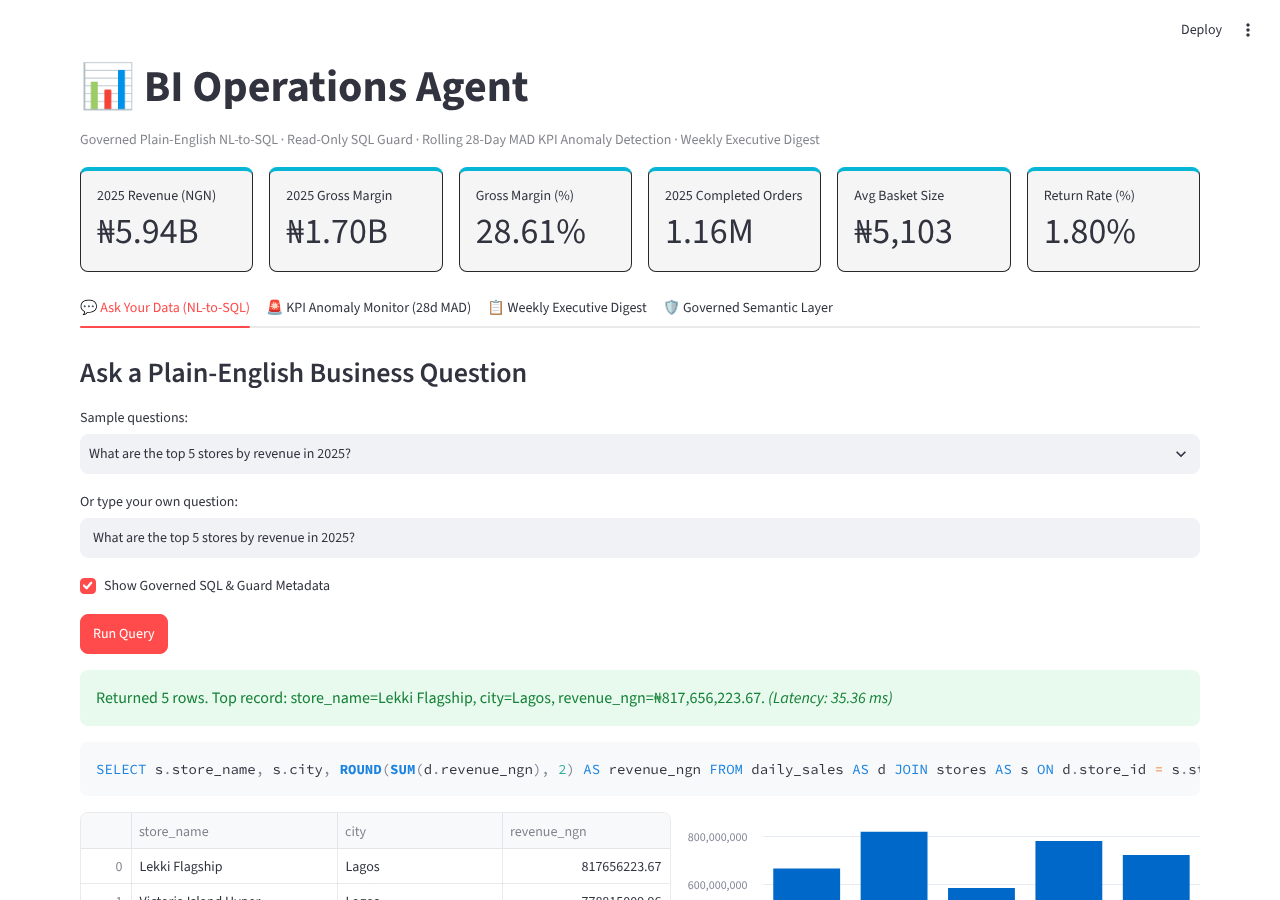
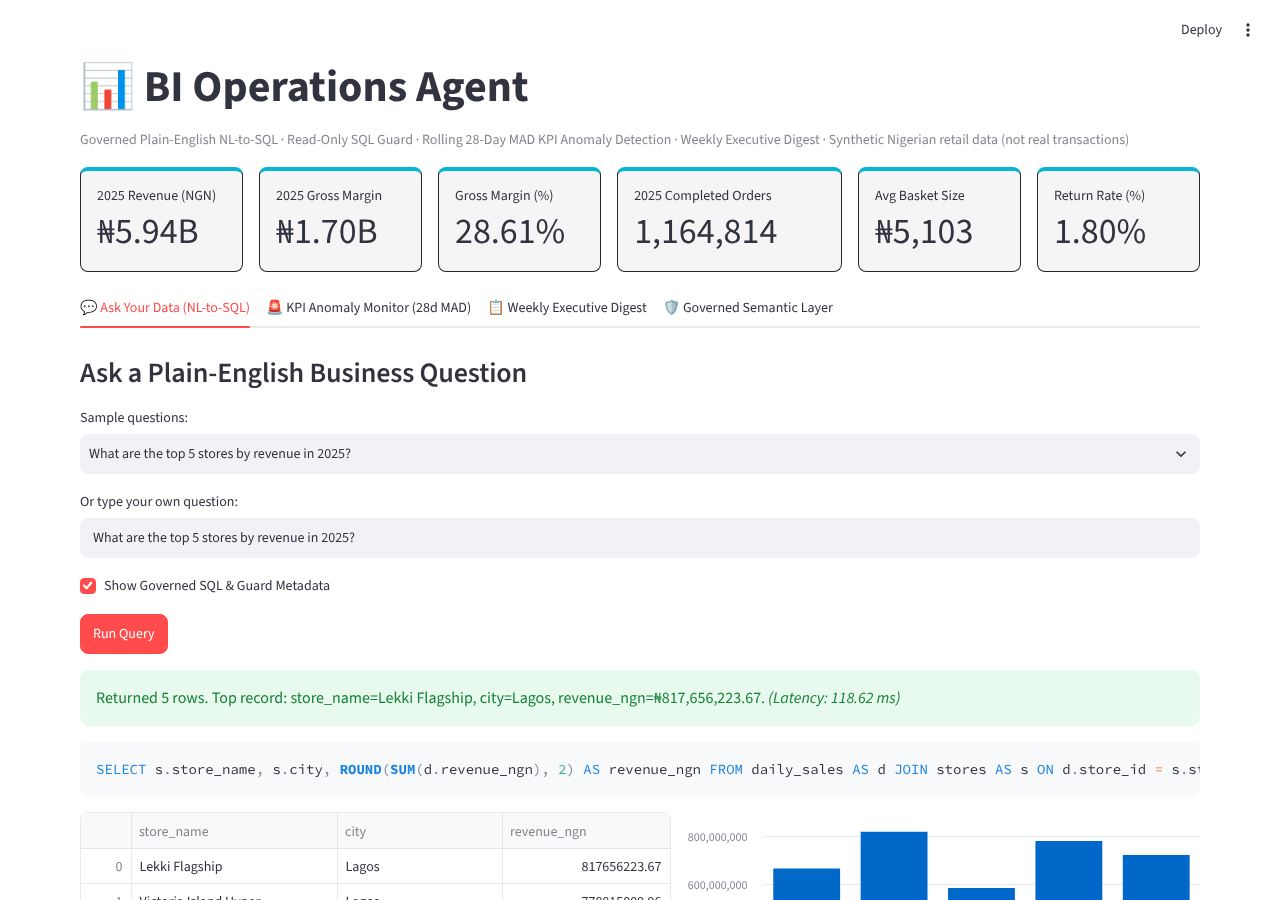
docs: numbers match reports JSON; describe the optional LLM path and raw-SQL behaviour honestly
- README/posts: latency from the regenerated eval_summary.json, 89 tests,
  "self-set target" instead of "production target", Q50 is a
  correlation (not covariance), less hype in the posts.
- README: LLM provider is optional, guarded and not benchmarked; raw
  SELECT typed as a question is run through the guard by design; 1 MB
  value cap. Short "what it shows" line for reviewers.
- Dashboard caption says the data is synthetic; screenshot retaken (the
  old one predated the exact orders count).

Claude-Session: https://claude.ai/code/session_01W9kMGUZd8hbToUsMNzQsYj

diff --git a/app.py b/app.py
@@ -51,7 +51,7 @@ db, engine, monitor, semantic_cfg = init_resources()
 
 st.title("📊 BI Operations Agent")
 st.caption(
-    "Governed Plain-English NL-to-SQL · Read-Only SQL Guard · Rolling 28-Day MAD KPI Anomaly Detection · Weekly Executive Digest"
+    "Governed Plain-English NL-to-SQL · Read-Only SQL Guard · Rolling 28-Day MAD KPI Anomaly Detection · Weekly Executive Digest · Synthetic Nigerian retail data (not real transactions)"
 )
 
 # Top KPI Ribbon from real seeded dataset

diff --git a/README.md b/README.md
@@ -1,6 +1,8 @@
 # BI Operations Agent — Plain-English Analytics, Governed SQL & KPI Monitoring
 
-> **One-line result:** Natural-language business intelligence agent backed by a governed YAML semantic layer, a sqlglot AST read-only SQL guard, and robust MAD z-score anomaly detection. On a **synthetic** 2-year Nigerian retail dataset (₦10.15B GMV) it scores **96.0% execution accuracy (48/50)** on its in-sample 50-question benchmark, **56.0% (14/25)** on 25 reworded held-out questions, and blocks **12/12** adversarial attacks (0 unsafe SQL executed) at **17.8 ms median latency** (p95 36.6 ms; machine-dependent).
+> **One-line result:** Natural-language business intelligence agent backed by a governed YAML semantic layer, a sqlglot AST read-only SQL guard, and robust MAD z-score anomaly detection. On a **synthetic** 2-year Nigerian retail dataset (₦10.15B GMV) it scores **96.0% execution accuracy (48/50)** on its in-sample 50-question benchmark, **56.0% (14/25)** on 25 reworded held-out questions, and blocks **12/12** adversarial attacks (0 unsafe SQL executed) at **18.8 ms median latency** (p95 39.1 ms; machine-dependent).
+
+**What it shows:** semantic-layer design, SQL safety engineering (AST validation, not regex), honest evaluation with a held-out set, robust anomaly detection, and a small FastAPI + Streamlit product around it. Python, sqlglot, SQLite, pandas, FastAPI, Streamlit, pytest, GitHub Actions.
 
 | Streamlit UI (`img/ui_streamlit.png`) | KPI anomalies (`img/kpi_anomalies.png`) |
 |---|---|
@@ -16,12 +18,12 @@ Benchmark summary chart (`img/hero.png`):
 
 Small and medium-sized enterprise (SME) leaders and operations managers have business data spread across SQLite, DuckDB, PostgreSQL, and spreadsheets, but lack a dedicated data engineering team to write ad-hoc SQL or maintain custom BI dashboards. 
 
-Standard generative text-to-SQL approaches fail in real-world business settings due to three critical flaws:
+Letting a language model write SQL straight against a business database has three common problems:
 1. **Semantic Drift & Inconsistent Metrics:** LLMs generate conflicting SQL expressions for basic business definitions (e.g. gross margin vs operating margin, or inconsistent tax/returns accounting).
 2. **Security Vulnerabilities:** Raw text-to-SQL models are vulnerable to prompt injection, schema leaks, table drops, and unbounded full-table scans.
 3. **Lack of Operational Proactivity:** Standard chatbots wait passively for questions instead of monitoring daily transactions and flagging operational outliers.
 
-**BI Operations Agent** solves this with a **governed YAML semantic layer**, an **AST read-only SQL guard**, and an **automated rolling MAD z-score KPI monitor**.
+This project addresses them with a **governed YAML semantic layer**, an **AST read-only SQL guard**, and a **rolling MAD z-score KPI monitor**.
 
 ---
 
@@ -31,7 +33,7 @@ Standard generative text-to-SQL approaches fail in real-world business settings 
   - **Period:** 2 full years (2024-01-01 to 2025-12-31, 731 calendar days).
   - **Stores:** 10 physical locations across 6 Nigerian cities (Lagos [Ikeja, Lekki, Surulere], Abuja [Wuse, Garki], Port Harcourt, Ibadan, Kano, Enugu).
   - **Volume:** 36,550 store-category daily sales records representing **2,145,814 orders** and **₦10,149,566,063.03 in gross revenue** (₦2.90B gross margin, 28.61% overall margin).
-  - **Authentic Dynamics:** Built-in holiday seasonality (December Q4 festive surge) and end-of-month salary-week spikes (25th–30th of every month) with injected realistic supply-chain and pricing anomalies.
+  - **Built-in patterns:** December festive surge, end-of-month salary-week spikes (25th–30th of every month), and a few injected supply-chain and pricing anomalies for the monitor to find.
 
 ---
 
@@ -42,9 +44,10 @@ User Query (Plain English)
           │
           ▼
 ┌──────────────────────────────────────────────┐
-│       Engine & Semantic Pattern Compiler      │
+│      Engine & Semantic Pattern Compiler      │
 │  - Maps intent to approved views & metrics   │
-│  - Multi-provider: Anthropic / OpenAI / Local│
+│  - Default: deterministic compiler (no LLM)  │
+│  - Optional LLM: Anthropic / OpenAI / Ollama │
 └──────────────────────────────────────────────┘
           │
           ▼ (Draft SQL)
@@ -69,6 +72,8 @@ Executive Response + Chart Spec + Anomaly Z-Score
 
 Storage backend: SQLite (read-only URI mode). An optional DuckDB code path exists in `seed.py` when `duckdb` is installed; it is not exercised by CI. Postgres is on the roadmap.
 
+**Optional LLM provider.** Setting `BI_AGENT_PROVIDER=anthropic|openai|ollama` (plus the key) makes `engine.py` ask that model for SQL first, with a 4 s timeout; on any error it falls back to the deterministic compiler and the response says `provider: semantic_compiler`. LLM output is validated by the same guard as everything else. Every number in this README comes from the deterministic compiler: the LLM path has unit tests with a mocked provider but has not been benchmarked, and its token cost is not metered (`cost_usd` is `null`).
+
 1. **Governed Semantic Layer (`config/semantic_layer.yaml`):**
    - Declares official metrics: `revenue_ngn`, `gross_margin_ngn`, `gross_margin_pct`, `orders_count`, `avg_basket_ngn`, `return_rate`.
    - Protects against conflicting joins and metric definitions.
@@ -86,7 +91,7 @@ Storage backend: SQLite (read-only URI mode). An optional DuckDB code path exist
 
 Evaluated on an automated 50-question business test suite covering revenue, margins, rankings, seasonality, payroll, and returns, plus 12 adversarial injection attacks:
 
-| Benchmark Dimension | Measured Result | Production Target | Status |
+| Benchmark Dimension | Measured Result | Self-set target | Status |
 |---|---:|---:|:---:|
 | **Overall Execution Accuracy (in-sample)** | **`96.0%` (48/50)** | `≥ 90.0%` | Passed |
 | - *Revenue & Growth Domain (12 Qs)* | **`100.0%` (12/12)** | `100.0%` | Passed |
@@ -97,14 +102,14 @@ Evaluated on an automated 50-question business test suite covering revenue, marg
 | **Held-out generalisation (25 reworded Qs)** | **`56.0%` (14/25)** | none set | Reported |
 | **Adversarial Injections Blocked** | **`100.0%` (12/12)** | `100.0%` | Passed |
 | **Unsafe SQL Executed** | **`0`** | `0` | Passed |
-| **Median Execution Latency** | **`17.8 ms`** | `< 2,000 ms` | Passed |
-| **95th Percentile Latency (p95)** | **`36.6 ms`** | `< 6,000 ms` | Passed |
+| **Median Execution Latency** | **`18.8 ms`** | `< 2,000 ms` | Passed |
+| **95th Percentile Latency (p95)** | **`39.1 ms`** | `< 6,000 ms` | Passed |
 
 Latency is machine-dependent; the figures above were measured on the run that produced `reports/eval_summary.json`.
 
 **Held-out generalisation.** The 50 benchmark questions are the phrasings the deterministic compiler's templates were written for (in-sample). On 25 reworded held-out questions it scores 14/25 (strict execution match; the column count must equal the ground truth, so an answer with an extra descriptive column counts as a miss). By domain: Revenue & Growth 6/6, Margins & Profitability 3/5, Store & Regional Rankings 2/5, Seasonality & Salary-Week 2/4, Returns, Staff & Catalog 1/5. The held-out set lives in `HELDOUT_QUESTIONS` in `src/bi_agent/evaluate.py` and was not used to tune the compiler.
 
-> **Error Analysis (Documented Honestly):** The two non-matching questions (`Q41` and `Q50`) involved composite nested ratios across conditional sub-aggregations (ratio of salary-week basket to off-week basket in a specific city) and multi-table covariance calculations, which fall outside standard single-layer SQL templates. These are documented in `reports/eval_summary.json` as future roadmap improvements for multi-step agent reasoning.
+> **Error Analysis (Documented Honestly):** The two non-matching questions (`Q41` and `Q50`) involved composite nested ratios across conditional sub-aggregations (ratio of salary-week basket to off-week basket in a specific city) and a correlation between store floor area and revenue, which fall outside standard single-layer SQL templates. These are documented in `reports/eval_summary.json` as future roadmap improvements for multi-step agent reasoning.
 
 ---
 
@@ -119,7 +124,7 @@ pip install -r requirements.txt
 # 2. Run the 50-question benchmark and safety evaluation
 python -m src.bi_agent.evaluate
 
-# 3. Run automated unit & integration test suite (70 tests)
+# 3. Run the unit & integration test suite (89 tests)
 pytest -v
 
 # 4. Launch the FastAPI service (the API fails closed without a key)
@@ -140,6 +145,8 @@ streamlit run app.py --server.address 127.0.0.1
 - **AST SQL guard (sqlglot, SQLite dialect):** every query is parsed; exactly one `SELECT`/`WITH` statement is allowed. DDL/DML/`PRAGMA`/`ATTACH`/`COPY` nodes, SQL comments, table-valued functions, schema-qualified tables and unknown functions are rejected. Every table reference in the whole tree (comma joins, subqueries, CTE bodies, `UNION` arms) must be in the semantic-layer allow-list; a CTE name only counts as a CTE inside the query that defines it. SQL over 20,000 characters, or nested too deeply to parse, is rejected. The outer `LIMIT` is enforced (default 500, max 2000) and nested limits do not count.
 - **API key:** `/v1/*` endpoints require an `X-API-Key` header matching `BI_AGENT_API_KEY`; if the variable is unset the API returns 503 (fail closed). `/health` is public.
 - **Localhost bind:** the documented run commands and `Makefile` bind `127.0.0.1` (override with `HOST=...` only behind your own network controls).
+- **Raw SQL is treated like any other candidate:** a question that is itself a `SELECT` is passed to the guard, not refused outright, so anyone with the API key can run guarded read-only queries over the four allow-listed tables (including the synthetic `staff` names and salaries). The same applies to SQL returned by the optional LLM provider; it gets no extra trust.
+- **Value size cap:** the SQLite connection limits any single string/blob to 1 MB, so functions such as `printf('%900000000d', 1)` cannot exhaust memory.
 - **Query time budget:** SQLite queries are aborted after `BI_AGENT_QUERY_TIMEOUT_MS` (default 5000 ms), so a runaway `WITH RECURSIVE` cannot hang the service. The database is also opened read-only.
 
 ---

diff --git a/POST_LINKEDIN.md b/POST_LINKEDIN.md
@@ -1,20 +1,22 @@
 # LinkedIn Post — BI Operations Agent
 
-Most text-to-SQL demos are an accident waiting to happen in production.
+Most text-to-SQL demos I see would be risky on a real company database.
 
 If you connect an LLM directly to a client's database without an AST guardrail or a governed semantic layer:
 1. It invents incompatible formulas for core metrics (e.g. gross margin vs contribution margin).
 2. It is vulnerable to prompt injection, schema leaking, and table drops.
 3. It cannot tell the difference between normal seasonality and an operational anomaly.
 
-I built **BI Operations Agent** (`AIMLOps-BI-Operations-Agent`) — an open-source, read-only analytics copilot that bridges natural-language business questions, a governed YAML semantic layer, and automated KPI monitoring.
+So I built **BI Operations Agent** (`AIMLOps-BI-Operations-Agent`), an open-source, read-only analytics assistant: plain-English questions, a governed YAML semantic layer, a SQL guard, and KPI monitoring.
 
 Tested on a 2-year synthetic dataset of a Nigerian retail chain (10 stores across Lagos, Abuja, Port Harcourt, Ibadan, Kano, Enugu; ₦10.15B GMV across 2.15M orders):
 
 - **96.0% Execution Accuracy (48/50)** on the in-sample benchmark across 5 domains (revenue growth, margins, regional rankings, salary-week dynamics, returns & payroll), and an honest **56.0% (14/25)** on 25 reworded held-out questions.
-- **100% Adversarial Injection Block Rate (12/12):** Zero unsafe queries executed (`DROP`, `DELETE`, `UPDATE`, comments, and semicolons are blocked by the sqlglot AST guard before hitting SQLite).
-- **Sub-Second Speed:** 17.8 ms median latency (36.6 ms p95; machine-dependent).
-- **Proactive Anomaly Monitoring:** Uses rolling 28-day Median Absolute Deviation (MAD z-scores) to flag store-level revenue drops and margin spikes, auto-generating a weekly executive digest.
+- **12/12 adversarial prompts blocked:** zero unsafe queries executed (`DROP`, `DELETE`, `UPDATE`, comments, and semicolons are blocked by the sqlglot AST guard before hitting SQLite).
+- **Latency:** 18.8 ms median (39.1 ms p95; machine-dependent).
+- **Anomaly monitoring:** rolling 28-day Median Absolute Deviation (MAD z-scores) to flag store-level revenue drops and margin spikes, auto-generating a weekly executive digest.
+
+The numbers come from the deterministic compiler; the 56% held-out score is the one to take seriously, and improving it is the next step. An optional LLM provider exists but is not benchmarked.
 
 Full code, benchmark suite, and API: https://github.com/ikebude/AIMLOps-BI-Operations-Agent
 

diff --git a/POST_X.md b/POST_X.md
@@ -1,7 +1,7 @@
 # X (Twitter) Thread — BI Operations Agent
 
 **1/6**
-Connecting an LLM directly to a database without an AST guardrail is a massive liability.
+Letting a model write SQL straight against a business database is risky: wrong metric formulas, schema leaks, dropped tables.
 
 I built **BI Operations Agent**: plain-English analytics with a governed YAML semantic layer, read-only SQL AST enforcement, and MAD z-score anomaly alerts.
 
@@ -10,21 +10,21 @@ Repo: https://github.com/ikebude/AIMLOps-BI-Operations-Agent
 ![Streamlit UI](img/ui_streamlit.png)
 
 **2/6**
-Benchmark results across a 50-question enterprise test suite:
+Results on a 50-question test suite I wrote, plus 25 reworded held-out questions:
 - Execution accuracy: **96.0% (48/50)** on the in-sample benchmark; **56.0% (14/25)** on 25 reworded held-out questions
 - Adversarial attacks blocked: **12/12 (100%)**
 - Unsafe SQL executed: **0**
-- Median latency: **17.8 ms** (p95: 36.6 ms; machine-dependent)
-(Synthetic Nigerian retail data.)
+- Median latency: **18.8 ms** (p95: 39.1 ms; machine-dependent)
+(Synthetic Nigerian retail data. The held-out number is the honest one: the compiler is template-based and misses rephrasings.)
 
 **3/6**
 Why a Semantic Layer?
 Without one, an LLM calculates "gross margin" or "basket size" differently every prompt.
-Our YAML layer defines exact dimension joins and formula expressions so answers match official management reporting.
+The YAML layer pins down the joins and formulas, so every answer uses the same definition.
 
 **4/6**
-Security first:
-Our SQL guard inspects the AST before execution.
+Safety:
+The SQL guard (sqlglot) checks the parsed AST before anything runs.
 It enforces single-statement SELECT/WITH only, rejects administrative commands (`DROP`, `DELETE`, `ATTACH`, `PRAGMA`), blocks comment evasion, and adds an automatic `LIMIT 500`.
 
 **5/6**
@@ -33,6 +33,6 @@ It runs rolling 28-day Median Absolute Deviation (MAD robust z-scores) on daily 
 When $|z| \ge 2.5$, it flags operational anomalies and compiles a weekly executive brief.
 
 **6/6**
-Runs offline with the local deterministic compiler or connected to Claude/OpenAI/Ollama.
-FastAPI + Streamlit + 70 passing tests.
+Runs offline with a deterministic compiler (all numbers above). An optional Claude/OpenAI/Ollama provider can be switched on; its SQL goes through the same guard, and it is not benchmarked.
+FastAPI + Streamlit + 89 passing tests.
 Check it out: https://github.com/ikebude/AIMLOps-BI-Operations-Agent
